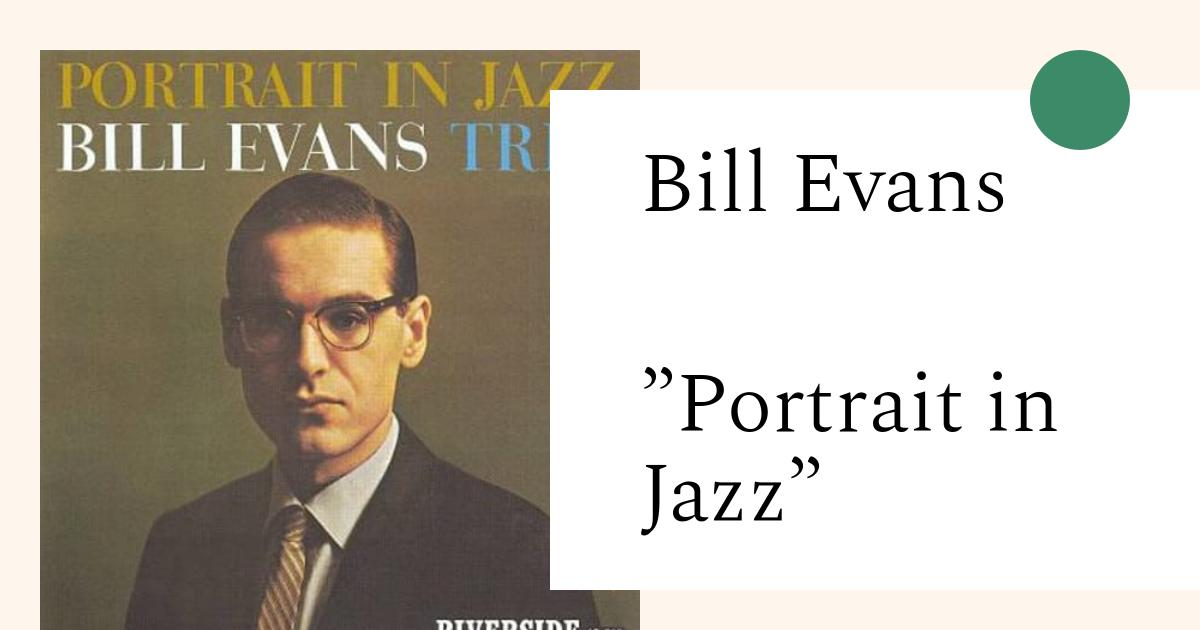
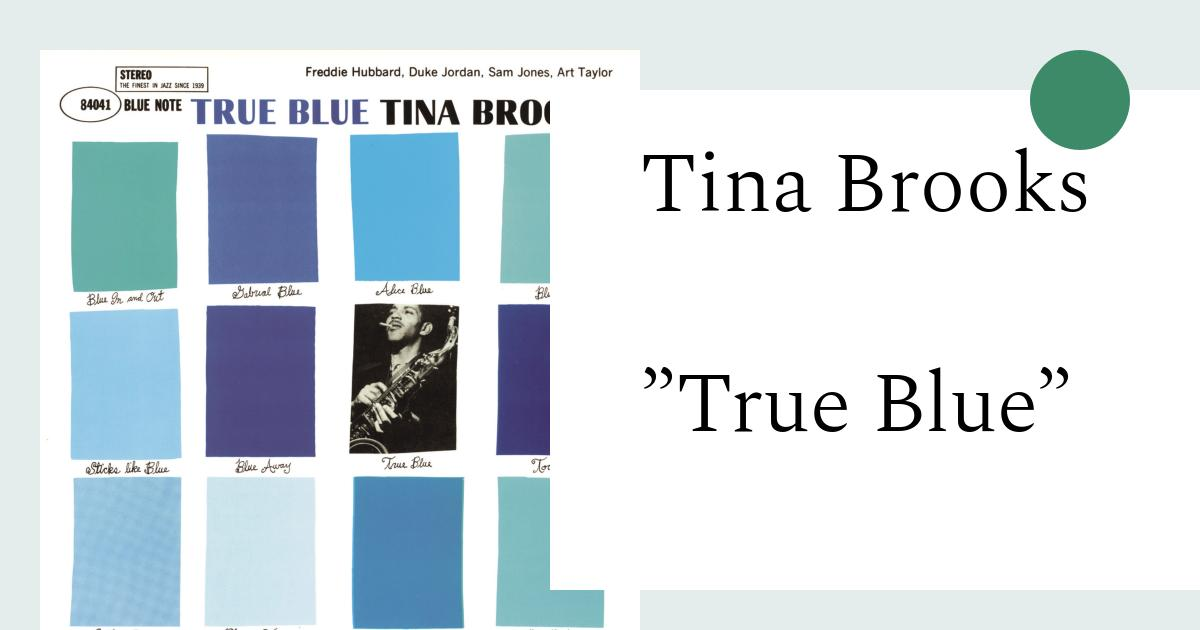
Refactor, add new record

diff --git a/tools/og-image.js b/tools/og-image.js
@@ -55,7 +55,7 @@ if (!fileData.attributes.ogimage) {
     const canvas = createCanvas(width, height);
     const context = canvas.getContext("2d");
     // Fill with white background color
-    context.fillStyle = "#fef6ed";
+    context.fillStyle = "#e4edeb";
     context.fillRect(0, 0, canvas.width, canvas.height);
     // Add image to canvas
     context.drawImage(image, 40, 50, 600, 600);

diff --git a/src/pages/true-blue.md b/src/pages/true-blue.md
@@ -1,0 +1,30 @@
+---
+layout: ../layouts/Record.astro
+title: True Blue
+artist: Tina Brooks
+label: Blue Note
+year: 1960
+tags:
+  - tina
+  - brooks
+  - hubbard
+ogimage: https://res.cloudinary.com/urre/image/upload/v1679642681/inyvtgsjihoebqijrgvf.jpg
+  - saxophone
+  - blue note
+permalink: /true-blue/
+spotify: https://open.spotify.com/album/2E4Zyg78Slt7IyJhIbYbtW
+image: https://res.cloudinary.com/urre/image/upload/v1679642557/ggexjvowsfkx1jqvpmdq.jpg
+tidal: 77634865
+credits:
+  - name: Tina Brooks
+    instrument: Tenor Saxophone
+  - name: Freddie Hubbard
+    instrument: Trumpet
+  - name: Duke Jordan
+    instrument: Piano
+  - name: Art Taylor
+    instrument: Drums
+  - name: Sam Jones
+    instrument: Bass
+pubDate: '2023-03-24'
+---
